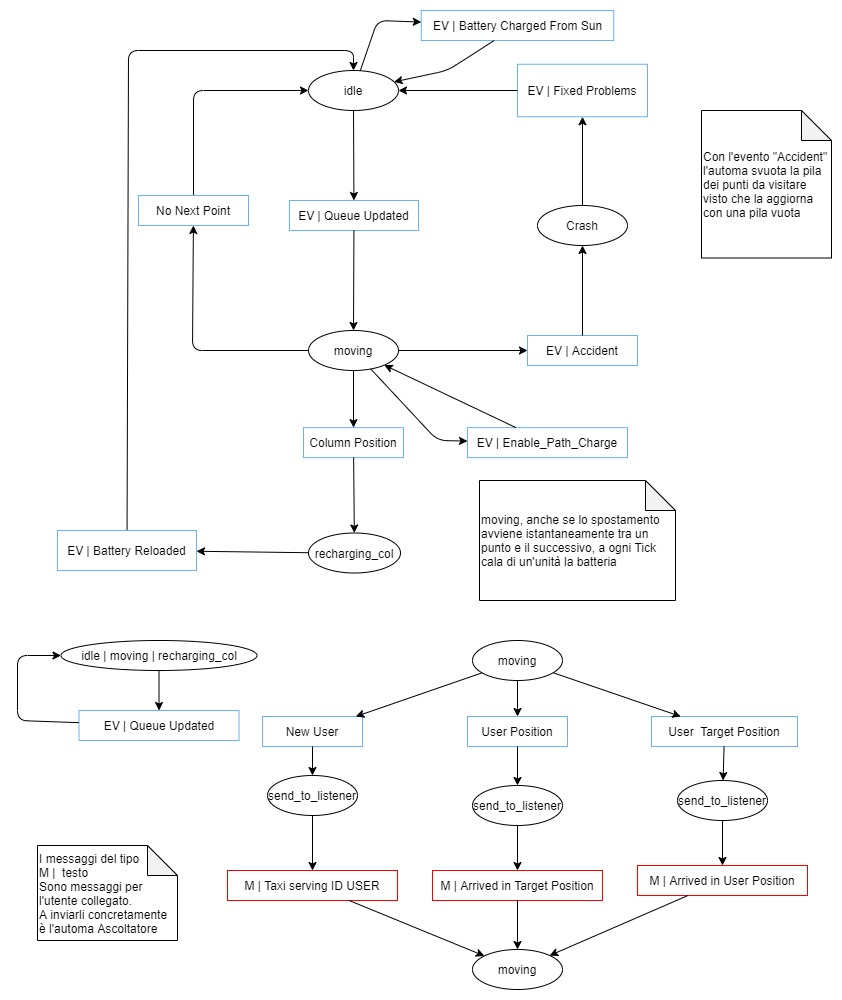
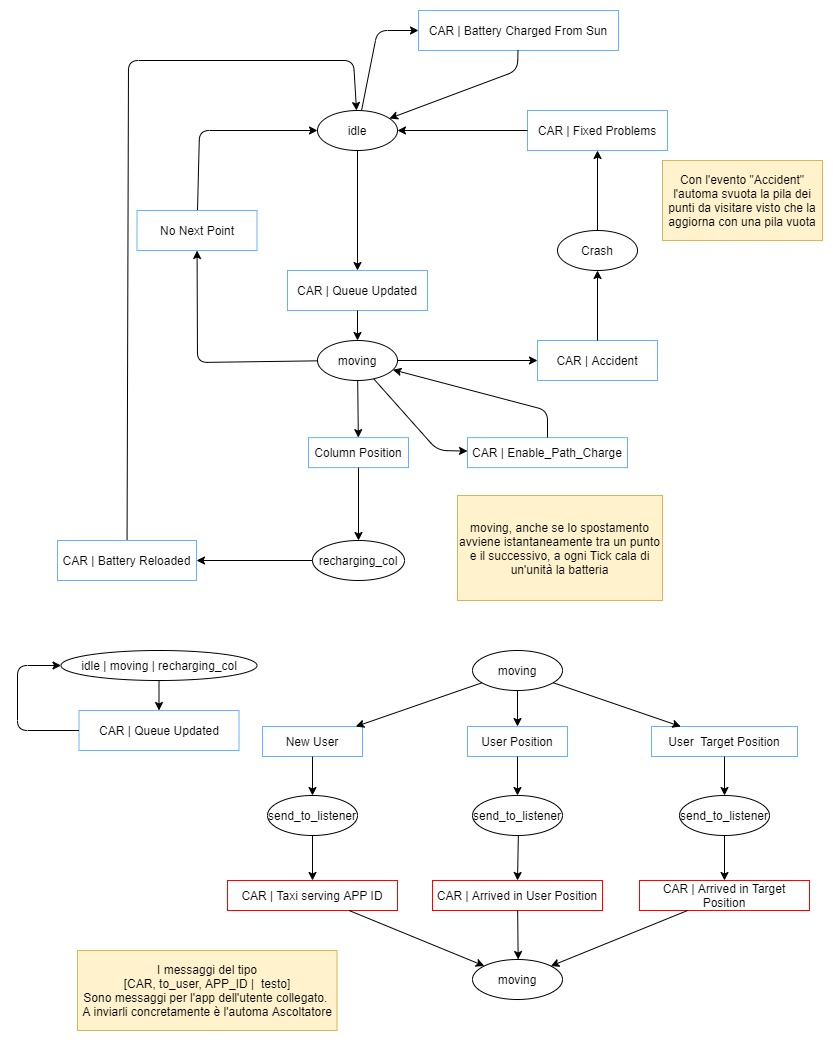
Relazione | Automi

diff --git a/relazione/progetto.tex b/relazione/progetto.tex
@@ -40,35 +40,63 @@ Qui di seguito sono descritti i vari moduli che si intende implementare per il p
 L'associazione fra i componenti fisici del sistema con i suddetti moduli e le varie dipendenze fra questi sono riportate nella sezione \ref{arch_fisica}.
 \end{itemize}
 
-Per rappresentare il comportamento delle entità coinvolte in base ai possibili eventi, sono stati creati due automi che rappresentano i possibili stati delle macchine e degli utenti. In essi, gli stati sono rappresentati da degli ovali, mentre gli eventi da dei riquadri di colore blu o rosso. Queste tonalità esprimono il tipo di messaggio: ricezione ed invio.
+\section{Automi Coinvolti} \label{automi}
 
-I  messaggi inseriti negli automi presentano un prefisso che indica la tipologia dell'evento:
-\begin{itemize}
-	\item M : indica un evento generico, inviato fra i due automi: macchina ed utente.
-	\item SC : indica una ``system call'', ossia un messaggio ricevuto dalla entità ambiente.
-	\item ME: indica i messaggi relativi all'algoritmo di leader election.
-	\item EV: indica un evento interno all'automa.
+Per rappresentare il comportamento delle entità coinvolte in base ai possibili eventi, sono stati creati diversi automi che codificano i possibili stati delle macchine e degli utenti. 
+Si è deciso di suddividere le suddette entità in più automi, ognuno di questi dedicato a una funzione specifica. 
+In particolare, l'utente è stato modellato con:
+\begin{itemize} 
+ \item automa\_utente : la rappresentazione dell'utente e di tutti gli eventi che possono interessargli.
+ \item automa\_app\_utente : la rappresentazione dell'utente dal punto di vista del servizio. Questo automa è l'istanza del servizio per un particolare utente, l'automa\_utente comunica con questo per poter usare il servizio così come i taxi o il servizio stesso per poter comunicare con l'automa\_utente.
 \end{itemize}
 
-L'immagine \ref{fig:automa_utente} rappresenta l'automa degli stati dell'entità utente.
-\begin{figure}[htbp]
-	\centering
-	\includegraphics[width=15cm]{automa_utente.jpg}
-	\caption{Rappresentazione degli stati possibili dell'entità utente.}
-	\label{fig:automa_utente}
-\end{figure}
+Il Taxi è stato invece modellato con questi automi:
+\begin{itemize} 
+ \item automa\_moving: rappresenta il veicolo in servizio.
+ \item automa\_elezione: descrive gli stati per l'algoritmo di elezione ed eventi associati. 
+ \item automa\_batteria: rappresenta un sensore della batteria interna al veicolo, notificando, quando necessario, che è necessario ricaricarla oppure lo stato di fermo della macchina per un certo periodo di tempo.
+ \item automa\_listener: l'automa ascoltatore dei possibili eventi che interessano al veicolo. Riceve eventi dall'ambiente, comunica con automa\_app\_utente per dialogare con gli utenti e permette la comunicazione con gli altri veicoli. Esso è il tramite verso gli automi interni al veicolo: ogni evento indirizzato ad essi viene prima catturato da questo automa e poi inviato al corretto destinatario.
+\end{itemize} 
 
-L'immagine \ref{fig:automa_macchina} rappresenta l'automa degli stati dell'entità macchina.
+All'interno del servizio, quando viene creato un nuovo utente oppure un nuovo taxi, vengono generate istanze di ogni automa correlato, vale a dire, quindi, i due automi per l'utente e i quattro automi per il taxi. Nel momento in cui un cliente è stato servito portandolo a destinazione, oppure un taxi viene rimosso dalla mappa, vengono distrutti gli automi correlati.
 
+In questi automi, gli stati sono rappresentati da degli ovali, mentre gli eventi da dei riquadri di colore blu o rosso. Queste tonalità esprimono il tipo di messaggio: ricezione ed invio.
 
-\begin{figure}[htbp]
-	\centering
-	\includegraphics[width=15cm]{automa_macchina.jpg}
-	\caption{Rappresentazione degli stati possibili dell'entità macchina.}
-	\label{fig:automa_macchina}
-\end{figure}
+I messaggi scambiati dagli automi sono formati da due parti:
+\begin{lstlisting} 
+[ Prefisso | Messaggio ]
+\end{lstlisting}
 
-\newpage
+Il prefisso indica il destinatario o il mittente del messaggio. Nel caso in cui sia assente si intende sia un messaggio interno allo stesso automa valido come scelta condizionale con lo scopo di effettuare un cambio di stato. I possibili mittenti e destinatari sono:
+
+\begin{itemize}
+	\item MOV : automa\_moving
+	\item CAR : automa\_listener
+	\item ELE : automa\_elezione
+	\item BAT :	automa\_batteria
+	\item UID : automa\_utente
+	\item APP : automa\_app\_utente
+	\item ALL : tutti gli altri automi collegati alla stessa entità
+	\item ENV : ambiente
+	\item EV  : generico messaggio per o da qualche automa della stessa entità
+\end{itemize}
+
+Gli automi sono presenti nell'appendice.
+
+L'immagine \ref{fig:automa_utente} rappresenta l'automa\_utente.
+
+L'automa\_app\_utente è stato suddiviso, graficamente, in 2 automi : l'immagine \ref{fig:automa_app_utente_flusso}  rappresenta il flusso del semplice spostamento dell'utente, mentre l'immagine \ref{fig:automa_app_utente_stati}  contiene tutti gli altri eventi che si possono ricevere nel mentre: cambiamento topologia, incidenti etc.
+
+L'immagine \ref{fig:automa_moving} rappresenta l'automa\_moving.
+
+L'immagine \ref{fig:automa_elezione} rappresenta l'automa\_elezione.
+
+L'immagine \ref{fig:automa_batteria} rappresenta l'automa\_batteria.
+
+L'immagine \ref{fig:automa_listener} rappresenta l'automa\_listener.
+
+L'immagine \ref{fig:various} rappresenta alcuni eventi globali per i taxi, ossia che interessano più stati di automi diversi.
+
 
 \section{Protocolli e algoritmi}
 In questa sezione vengono discusse le comunicazioni tra le diverse componenti e gli algoritmi utilizzati all'interno del sistema.

diff --git a/relazione/appendici.tex b/relazione/appendici.tex
@@ -78,3 +78,60 @@
 \label{fig:messaggi_macchina_aggiornamento_mappa_clienti}
 \end{figure}
 
+
+
+\begin{figure}[htbp]
+	\centering
+	\includegraphics[width=14cm]{automa_utente.jpg}
+	\caption{Rappresentazione degli stati possibili dell'entità utente.}
+	\label{fig:automa_utente}
+\end{figure}
+
+\begin{figure}[htbp]
+	\centering
+	\includegraphics[width=14cm]{automa_app_utente_flusso.jpg}
+	\caption{Rappresentazione degli stati utente per il servizio - spostamento utente.}
+	\label{fig:automa_app_utente_flusso}
+\end{figure}
+
+\begin{figure}[htbp]
+	\centering
+	\includegraphics[width=13cm]{automa_app_utente_stati.jpg}
+	\caption{Rappresentazione degli stati utente per il servizio - ulteriori eventi.}
+	\label{fig:automa_app_utente_stati}
+\end{figure}
+
+\begin{figure}[htbp]
+	\centering
+	\includegraphics[width=14cm]{automa_macchina_moving.jpg}
+	\caption{Rappresentazione degli stati macchina in servizio}
+	\label{fig:automa_moving}
+\end{figure}
+
+\begin{figure}[htbp]
+	\centering
+	\includegraphics[width=16cm]{automa_macchina_elezione.jpg}
+	\caption{Rappresentazione degli stati macchina - elezione}
+	\label{fig:automa_elezione}
+\end{figure}
+
+\begin{figure}[htbp]
+	\centering
+	\includegraphics[width=16cm]{automa_macchina_batteria.jpg}
+	\caption{Rappresentazione degli stati macchina - batteria}
+	\label{fig:automa_batteria}
+\end{figure}
+
+\begin{figure}[htbp]
+	\centering
+	\includegraphics[width=20cm, angle = 90]{automa_macchina_ascoltatore.jpg}
+	\caption{Rappresentazione degli stati macchina - listener}
+	\label{fig:automa_listener}
+\end{figure}
+
+\begin{figure}[htbp]
+	\centering
+	\includegraphics[width=13cm]{automa_macchina_global_events.jpg}
+	\caption{Eventi globali automi macchina}
+	\label{fig:various}
+\end{figure}
